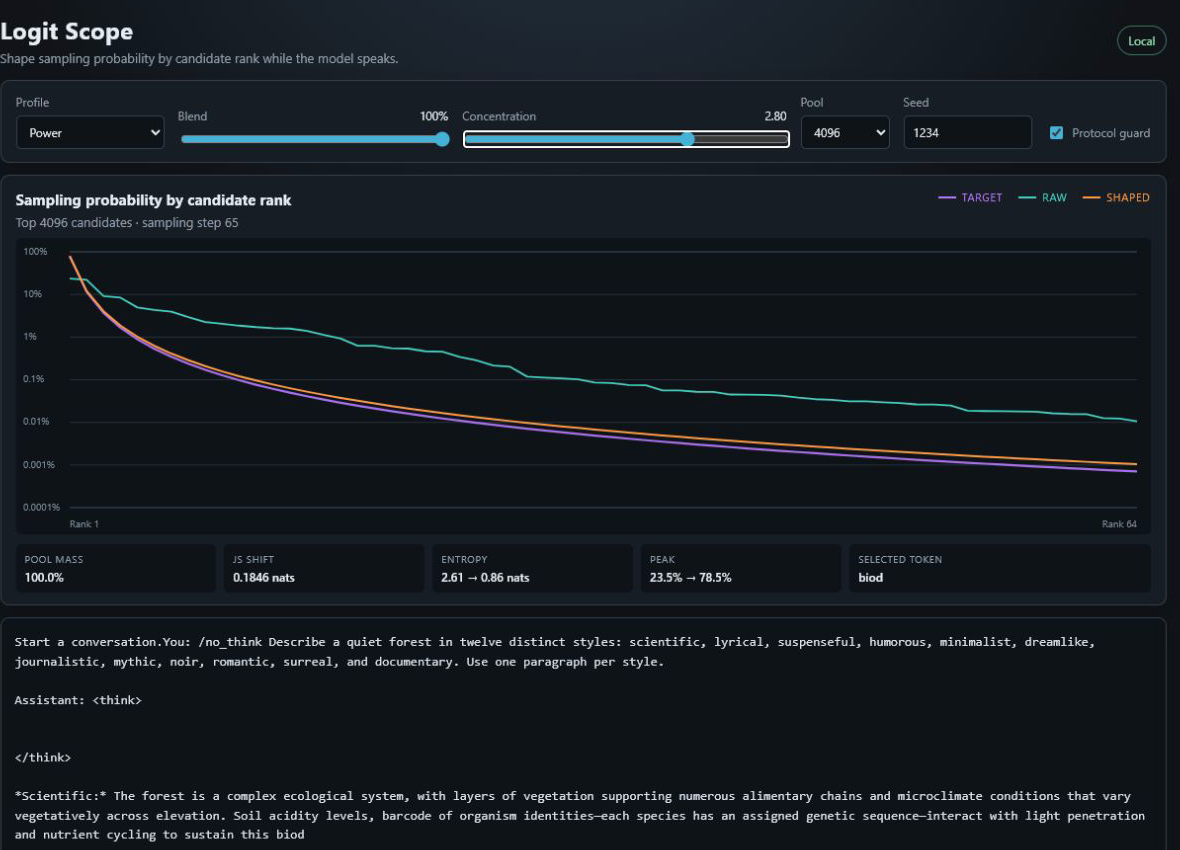
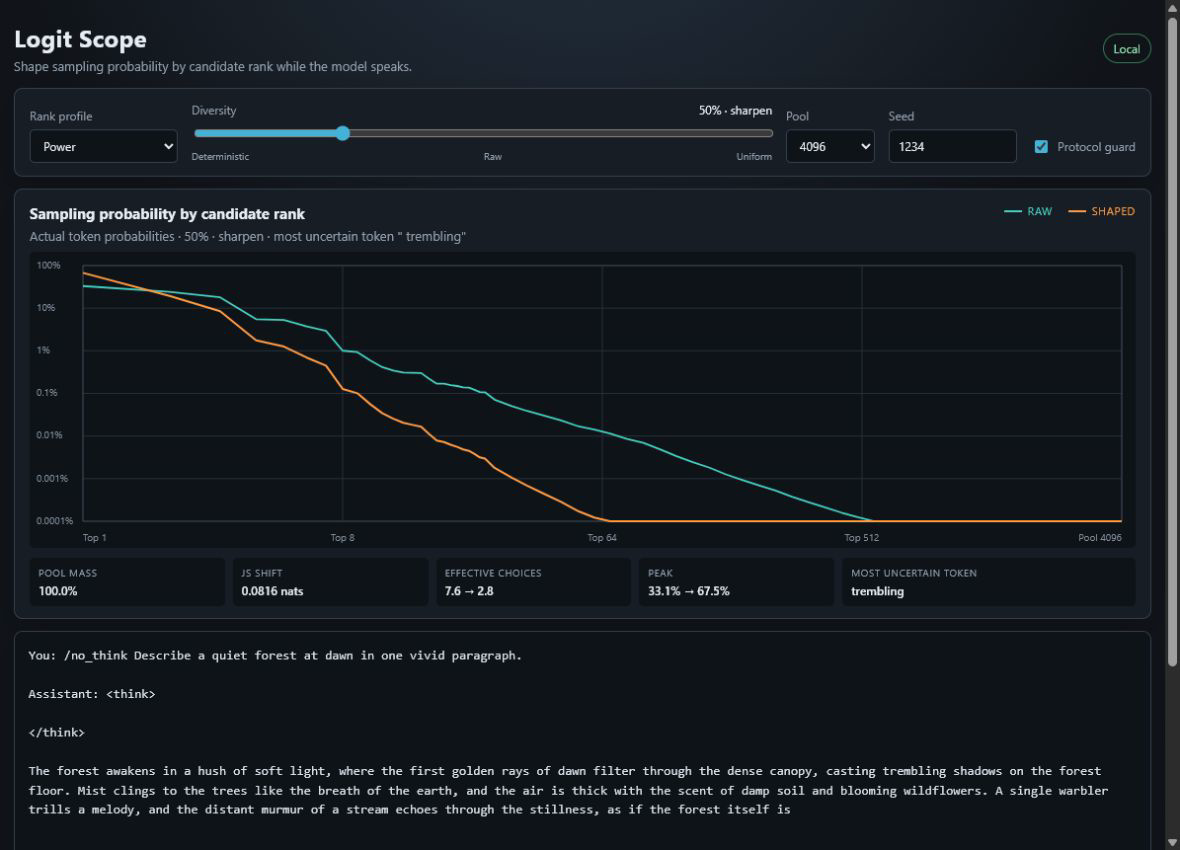
update assets

diff --git a/README.md b/README.md
@@ -4,6 +4,8 @@ Logit Scope is a local chat laboratory for reshaping an LLM's next-token probabi
 
 Created by [Aaron (`caustik`)](https://github.com/caustik) and released by APU Software, LLC.
 
+![Logit Scope reshaping ranked next-token probabilities at 50% diversity](docs/images/logit-scope.png)
+
 The project is a small C++ application built directly on [llama.cpp](https://github.com/ggml-org/llama.cpp). It serves an embedded, dependency-free web interface on localhost. There is no JUCE dependency, package manager, cloud service, or separate frontend build.
 
 ## What you can manipulate
@@ -15,6 +17,8 @@ The project is a small C++ application built directly on [llama.cpp](https://git
 - **Protocol guard:** leaves control and end-of-generation logits at their raw values
 
 Profile, diversity, pool, and protocol guard changes take effect on the next sampled token, including during a response. Seed changes take effect when the next response starts.
+
+![Sweeping the Power profile from deterministic through raw to uniform sampling](docs/images/logit-scope-demo.gif)
 
 ## Clone and build
 